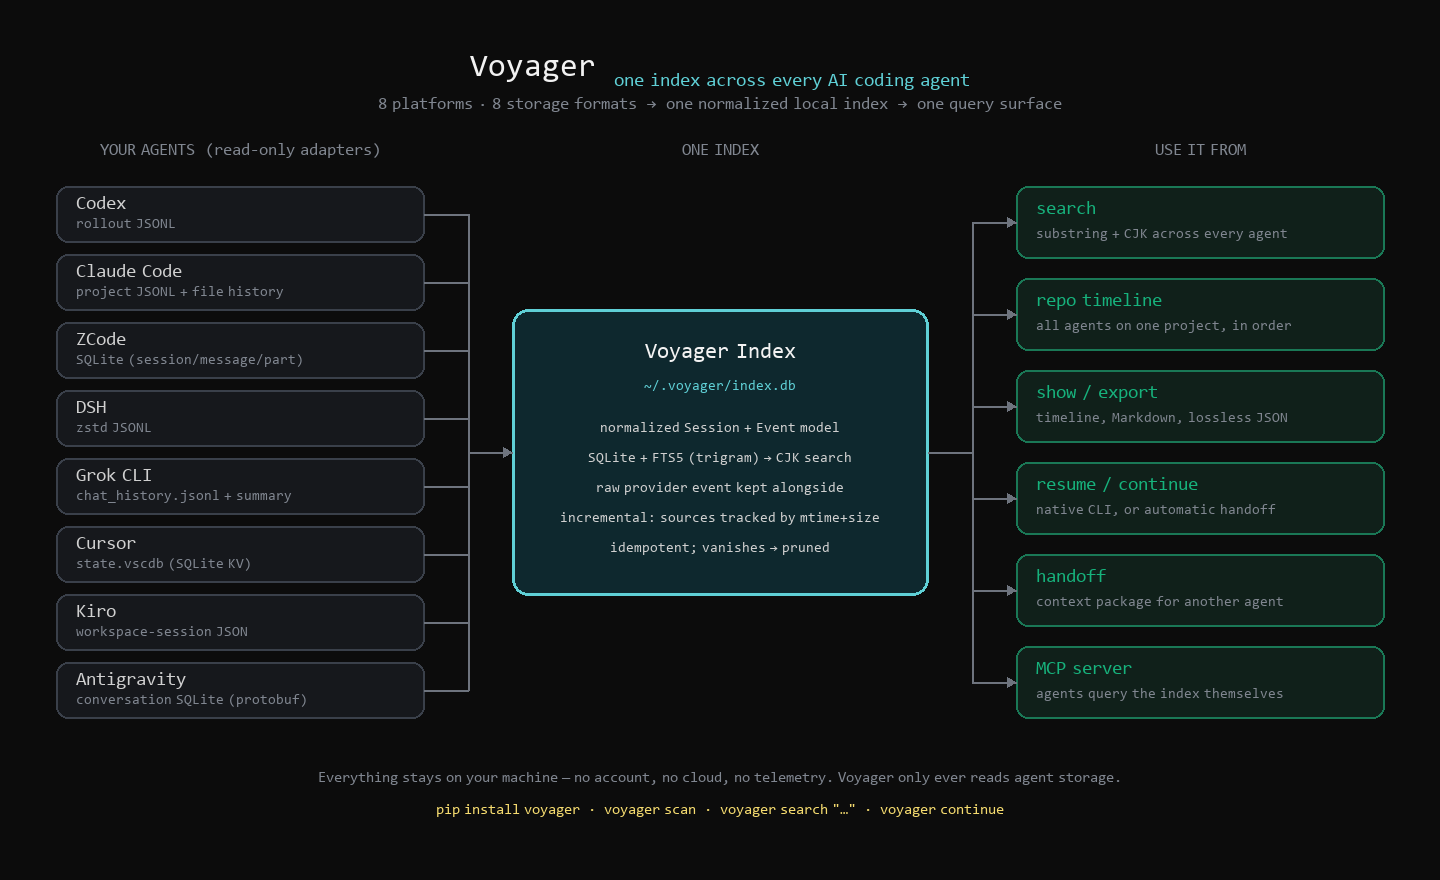
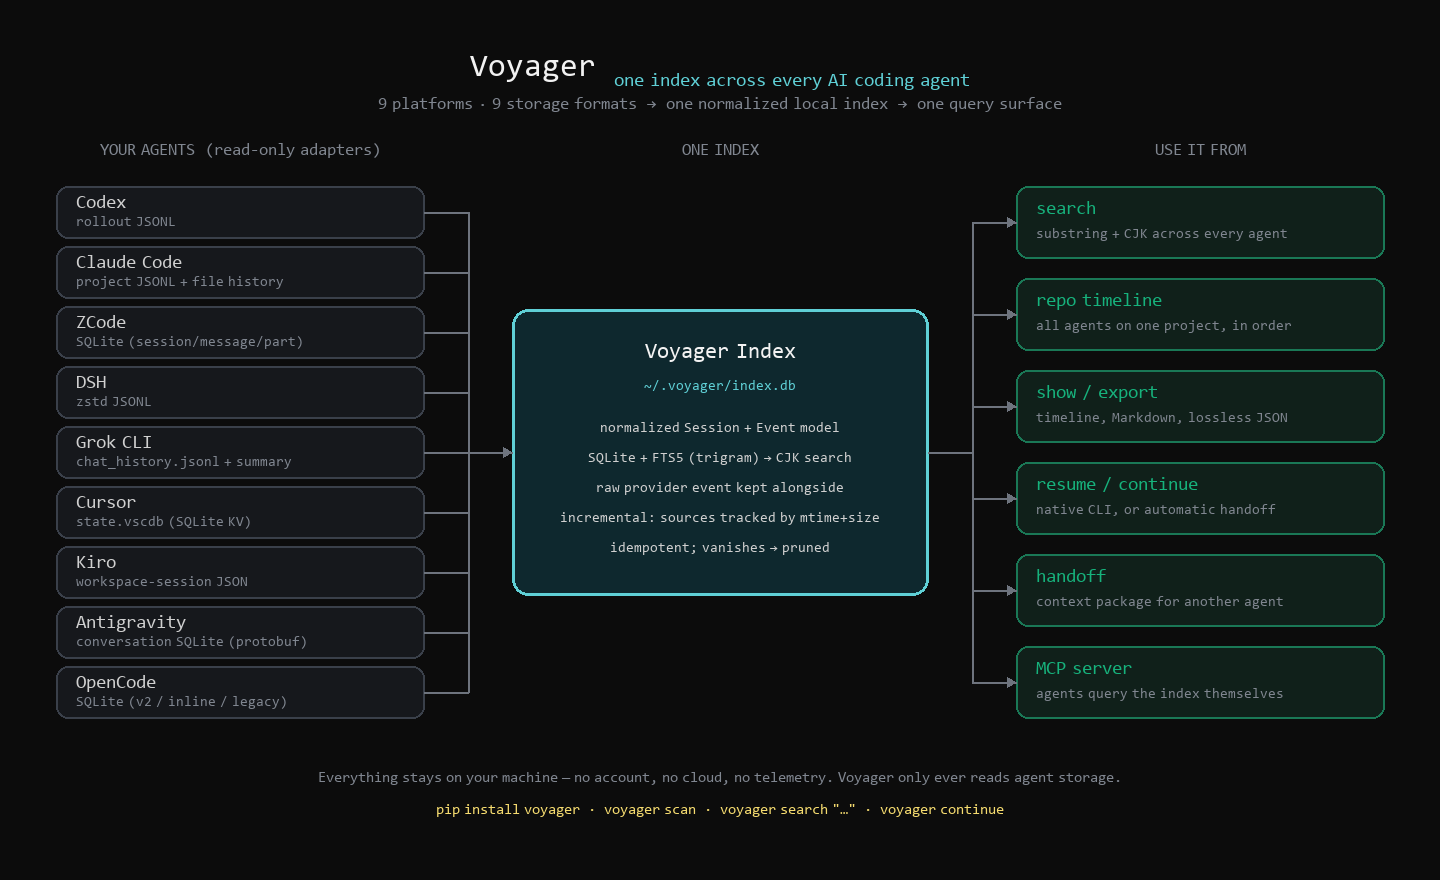
docs(diagram): show nine providers including OpenCode (#28)
Rebalances the left card grid (9x52+8x8 = 532) so a ninth provider keeps the equal-height invariant instead of deleting it. Regenerates both assets and updates both READMEs, CONCEPT_MODEL, FAQ and ROADMAP. Closes #27.

Changed region(s): [[0.0312, 0.2148, 0.3125, 0.7977]]

diff --git a/scripts/make_diagram.py b/scripts/make_diagram.py
@@ -5,7 +5,7 @@ Outputs (both from ONE layout definition, so they cannot drift apart):
     docs/screenshots/architecture.png    raster, embedded in the READMEs
     docs/screenshots/architecture.svg    vector, for further tweaking
 
-The picture in one line: 8 agents with 8 storage formats feed one normalized
+The picture in one line: 9 agents with 9 storage formats feed one normalized
 local index, which is then queryable from the CLI, another agent, or an MCP
 host. Re-run after adding a platform:
 
@@ -67,10 +67,15 @@ MARGIN = 56
 COL_W = 368          # left and right column width (identical: equal weight)
 MID_W = 416          # sized for the worst-case font, see FIT_ADVANCE
 GAP = 88             # horizontal gap between two neighbouring columns
-CARD_H = 56          # left card height
-CARD_GAP = 12
+CARD_H = 52          # left card height
+CARD_GAP = 8
 RCARD_H = 72         # right cards are taller so both stacks end up equally tall
 RCARD_GAP = 20
+# Nine left cards and six right cards must still end at the same y:
+#   9*52 + 8*8  = 532
+#   6*72 + 5*20 = 532
+# `_check_layout()` asserts it, so a tenth provider needs a new balance rather
+# than a silently lopsided picture.
 
 CARD_PAD = 20        # text inset inside the side cards
 MID_PAD = 24         # text inset inside the index box (its lines are centred)
@@ -97,7 +102,7 @@ CARD_TEXT_SIZE = 14
 
 # --- content (unchanged) ----------------------------------------------------
 TAGLINE = "one index across every AI coding agent"
-SUBTITLE = ("8 platforms · 8 storage formats  →  one normalized local index  →  "
+SUBTITLE = ("9 platforms · 9 storage formats  →  one normalized local index  →  "
             "one query surface")
 HEAD_LEFT = "YOUR AGENTS  (read-only adapters)"
 HEAD_MID = "ONE INDEX"
@@ -120,6 +125,7 @@ PROVIDERS = [
     ("Cursor", "state.vscdb (SQLite KV)"),
     ("Kiro", "workspace-session JSON"),
     ("Antigravity", "conversation SQLite (protobuf)"),
+    ("OpenCode", "SQLite (v2 / inline / legacy)"),
 ]
 OUTPUTS = [
     ("search", "substring + CJK across every agent"),
@@ -358,8 +364,8 @@ def render_png(L: dict) -> Path:
     for i, (name, fmt) in enumerate(PROVIDERS):
         y0, y1 = L["left_card"](i)
         _box(d, L["lx"], y0, L["l_right"], y1, PANEL, PANEL_EDGE)
-        draw_text(d, L["lx"] + CARD_PAD, y0 + 8, name, 19, FG)
-        draw_text(d, L["lx"] + CARD_PAD, y0 + 31, fmt, 14, DIM)
+        draw_text(d, L["lx"] + CARD_PAD, y0 + 7, name, 19, FG)
+        draw_text(d, L["lx"] + CARD_PAD, y0 + 29, fmt, 14, DIM)
 
     # ---- middle: the index (its lines are centred in the box) --------------
     _box(d, L["mx"], L["mid_top"], L["m_right"], L["mid_bottom"],
@@ -477,8 +483,8 @@ def render_svg(L: dict) -> Path:
     for i, (name, fmt) in enumerate(PROVIDERS):
         y0, y1 = L["left_card"](i)
         s.rect(L["lx"], y0, L["l_right"], y1, PANEL, PANEL_EDGE)
-        s.text(L["lx"] + CARD_PAD, y0 + 8, name, 19, FG)
-        s.text(L["lx"] + CARD_PAD, y0 + 31, fmt, 14, DIM)
+        s.text(L["lx"] + CARD_PAD, y0 + 7, name, 19, FG)
+        s.text(L["lx"] + CARD_PAD, y0 + 29, fmt, 14, DIM)
 
     s.rect(L["mx"], L["mid_top"], L["m_right"], L["mid_bottom"],
            PANEL_CYAN, CYAN, radius=16, width=3)

diff --git a/tests/test_diagram.py b/tests/test_diagram.py
@@ -50,8 +50,11 @@ def test_committed_assets_match_the_layout(diagram):
 
 
 def test_diagram_still_shows_every_platform_and_use_case(diagram):
-    assert len(diagram.PROVIDERS) == 8, "README claims 8 platforms"
+    assert len(diagram.PROVIDERS) == 9, "README claims 9 platforms"
     assert len(diagram.OUTPUTS) == 6
     assert all(fmt for _, fmt in diagram.PROVIDERS)
+    names = [name for name, _ in diagram.PROVIDERS]
+    assert "OpenCode" in names, "OpenCode shipped in v1.4.0 and must be drawn"
+    assert len(set(names)) == len(names), "duplicate provider card"
     assert "voyager scan" in diagram.FOOTER_2
     assert "no telemetry" in diagram.FOOTER_1

diff --git a/README.md b/README.md
@@ -20,7 +20,7 @@ is one client of it, and the core is a general-purpose local tool.)
 |  |  |
 |---|---|
 | **What it is** | A local index plus a continuity layer over the session history your coding agents already write to disk. |
-| **Why use it** | Your history is split across eight formats. sessionFlow makes it one thing you can search, summarize, export and continue — and every claim in a continuation bundle names the event it came from, so you can check it. |
+| **Why use it** | Your history is split across nine formats. sessionFlow makes it one thing you can search, summarize, export and continue — and every claim in a continuation bundle names the event it came from, so you can check it. |
 | **Install** | `pipx install "voyager[all] @ git+https://github.com/HarryHeYu/sessionFlow.git@v1.4.0"` — [details](#install) |
 | **Try it (2 min)** | `voyager demo` — synthetic data, no agents needed — [quick start](#quick-start) · [5-minute walkthrough](docs/QUICKSTART.md) |
 | **Current release** | [v1.4.0](https://github.com/HarryHeYu/sessionFlow/releases/tag/v1.4.0) · Python ≥ 3.10 · Windows / macOS / Linux |
@@ -84,9 +84,9 @@ agents already wrote, normalizes them into one SQLite index you can search,
 resume from, hand off to another agent, or query straight from inside an
 agent over MCP / the DSH plugin.
 
-![Voyager architecture: 8 agents, 8 storage formats, one index](https://raw.githubusercontent.com/HarryHeYu/sessionFlow/main/docs/screenshots/architecture.png)
+![Voyager architecture: 9 agents, 9 storage formats, one index](https://raw.githubusercontent.com/HarryHeYu/sessionFlow/main/docs/screenshots/architecture.png)
 
-Eight agents keep eight different formats; Voyager normalizes them into one
+Nine agents keep nine different formats; Voyager normalizes them into one
 SQLite index you can search, resume from, hand off to another agent, or query
 straight from inside an agent over MCP.
 

diff --git a/docs/ROADMAP.md b/docs/ROADMAP.md
@@ -225,7 +225,7 @@ not a licence for two agents to share one native file.
 
 ## Format translation (why pairwise copy fails)
 
-Eight agents, eight on-disk formats. They are not interchangeable.
+Nine agents, nine on-disk formats. They are not interchangeable.
 
 | Provider | On-disk shape | Resume CLI | Safe to *write*? |
 |---|---|---|---|
@@ -237,17 +237,18 @@ Eight agents, eight on-disk formats. They are not interchangeable.
 | Cursor | `state.vscdb` KV | none | **no** |
 | Antigravity | SQLite + protobuf | none | **no** |
 | Kiro | JSON `history[]`, no tools | none | **no** |
+| OpenCode | SQLite `session_v2`/`session_part` (v2), inline `session_message.data` (v2.0.x), or `session`/`message`/`part` (legacy) | none | **no**, read-only |
 
 Tool names do not map (`Read` ≠ `shell_command` ≠ `read_file`).
 Unmatched `tool_use` / `tool_result` pairs break the next API call.
 Grok/Codex reasoning is encrypted. A pairwise converter matrix
-(Claude→Codex, Codex→Grok, …) is 8×7 writers that rot whenever a
+(Claude→Codex, Codex→Grok, …) is 9×8 writers that rot whenever a
 vendor bumps a JSONL schema.
 
 So the hub is the index Voyager already has:
 
 ```
-8 provider formats
+9 provider formats
       ↓  adapters (read-only)          shipped
 canonical Session / Event
       ↓  continuity compiler           Phase 1 shipped
@@ -411,7 +412,7 @@ Do not rebuild this. The continuity layer sits on top.
 
 | Layer | Today |
 |---|---|
-| Adapters | 8 providers → normalized `Session` / `Event` (`voyager/model.py`) |
+| Adapters | 9 providers → normalized `Session` / `Event` (`voyager/model.py`) |
 | Index | SQLite + FTS5 trigram (`voyager/store.py`), idempotent scan |
 | Per-session handoff V1 | `voyager/handoff.py`: one session → Markdown Context Package → launch `claude` / `codex` / `grok` |
 | Continue V1 | newest session; native resume when `can_resume`, else handoff |

diff --git a/docs/CONCEPT_MODEL.md b/docs/CONCEPT_MODEL.md
@@ -17,7 +17,7 @@ the code is the contract and this document is the bug.
 
 ### 1. Provider
 
-The eight providers sessionFlow integrates with, as the `provider` value used by
+The nine providers sessionFlow integrates with, as the `provider` value used by
 `--platform` and stored on every session.
 
 | Provider | Agent | Source shape |
@@ -30,6 +30,7 @@ The eight providers sessionFlow integrates with, as the `provider` value used by
 | `kiro` | Kiro IDE | workspace-session JSON under `%APPDATA%` |
 | `antigravity` | Antigravity | conversation SQLite (protobuf payloads) |
 | `dsh` | DSH | zstd JSONL under `~/.dsh/sessions` |
+| `opencode` | OpenCode | read-only SQLite (`session_v2` / inline / legacy) — one artifact, many sessions |
 
 Defined once in `voyager/capability_matrix.py::PROVIDERS` and implemented as one
 module each in `voyager/adapters/`.
@@ -46,7 +47,7 @@ from one read.
 | Type | Providers | Consequence |
 |---|---|---|
 | One file per session | `codex`, `claude`, `grok`, `kiro`, `dsh` | a failed write costs one session; the file can be re-read alone |
-| One artifact, many sessions | `zcode`, `cursor`, `antigravity` | the whole artifact must be read before anything is written; a partial write must not be stamped complete |
+| One artifact, many sessions | `zcode`, `cursor`, `antigravity`, `opencode` | the whole artifact must be read before anything is written; a partial write must not be stamped complete |
 
 The second row is the source of defects D5 and D7 and of issue #18. The rule it
 implies — never stamp a shared artifact until every session in it is written — is

diff --git a/docs/ROADMAP.zh-CN.md b/docs/ROADMAP.zh-CN.md
@@ -152,7 +152,7 @@ Voyager 不会声称能做 session migration。用户侧的缝是一条命令（
 
 ## 格式翻译（为什么不能两两拷贝）
 
-八家 Agent，八种落盘格式，不能互换。
+九家 Agent，九种落盘格式，不能互换。
 
 | Provider | 落盘形态 | Resume CLI | 能不能*写回去* |
 |---|---|---|---|
@@ -164,16 +164,17 @@ Voyager 不会声称能做 session migration。用户侧的缝是一条命令（
 | Cursor | `state.vscdb` KV | 无 | **不能** |
 | Antigravity | SQLite + protobuf | 无 | **不能** |
 | Kiro | JSON `history[]`，无 tool | 无 | **不能** |
+| OpenCode | SQLite `session_v2`/`session_part`（v2）、内联 `session_message.data`（v2.0.x）或 `session`/`message`/`part`（legacy） | 无 | **不能**，只读 |
 
 工具名对不上（`Read` ≠ `shell_command` ≠ `read_file`）。
 不成对的 `tool_use` / `tool_result` 会让下一次 API 调用直接失败。
 Grok / Codex 的 reasoning 是加密的。
-两两转换（Claude→Codex、Codex→Grok、…）是 8×7 个 writer，上游改一行 schema 就全烂。
+两两转换（Claude→Codex、Codex→Grok、…）是 9×8 个 writer，上游改一行 schema 就全烂。
 
 所以枢纽是 Voyager 已经有的索引：
 
 ```
-8 种 provider 格式
+9 种 provider 格式
       ↓  adapter（只读）               已有
 归一化 Session / Event
       ↓  continuity 编译器            Phase 1 已有

diff --git a/README.zh-CN.md b/README.zh-CN.md
@@ -18,7 +18,7 @@
 |  |  |
 |---|---|
 | **是什么** | 在编码 Agent 已经写到磁盘上的会话历史之上，加一层本地索引 + 接续层。 |
-| **为什么用** | 你的历史分散在八种格式里。sessionFlow 让它变成一件可以检索、总结、导出、接续的东西——而且接续包里的每一条结论都标着它出自哪个事件，可以核对。 |
+| **为什么用** | 你的历史分散在九种格式里。sessionFlow 让它变成一件可以检索、总结、导出、接续的东西——而且接续包里的每一条结论都标着它出自哪个事件，可以核对。 |
 | **安装** | `pipx install "voyager[all] @ git+https://github.com/HarryHeYu/sessionFlow.git@v1.4.0"` —— [详见](#安装) |
 | **2 分钟试用** | `voyager demo` —— 合成数据，不需要任何 Agent —— [快速上手](#快速上手) · [5 分钟上手指南](docs/QUICKSTART.md) |
 | **当前版本** | [v1.4.0](https://github.com/HarryHeYu/sessionFlow/releases/tag/v1.4.0) · Python ≥ 3.10 · Windows / macOS / Linux |
@@ -44,6 +44,7 @@
 - Claude Code 对话（project JSONL）
 - DSH 运行记录（zstd JSONL）
 - ZCode / Cursor / Kiro / Grok / Antigravity（SQLite、VSCDB、JSON……）
+- OpenCode（只读 SQLite：v2 / inline / legacy 三种形态）
 
 sessionFlow 把它们归并成**一份本地索引**——纯本地运行，无账号、无云端、
 无遥测。

diff --git a/docs/FAQ.md b/docs/FAQ.md
@@ -51,9 +51,10 @@ See [ROADMAP.md](ROADMAP.md).
 
 **Can I finish a chat in Claude and keep the same history visible in Codex?**
 
-Not as the same native session. The eight agents store history in eight
-formats (JSONL, zstd JSONL, SQLite, protobuf, VS Code KV); tool names
-do not map; hidden tool state and cached reasoning stay behind.
+Not as the same native session. The nine agents store history in incompatible
+formats (JSONL, zstd JSONL, several unrelated SQLite schemas, protobuf,
+VS Code KV); tool names do not map; hidden tool state and cached reasoning
+stay behind.
 Voyager's path is: refresh the index, compile a Continuation Bundle
 from the canonical events, start a *new* Codex session that reads it.
 Same-provider continue still uses native resume. Writing a synthetic
